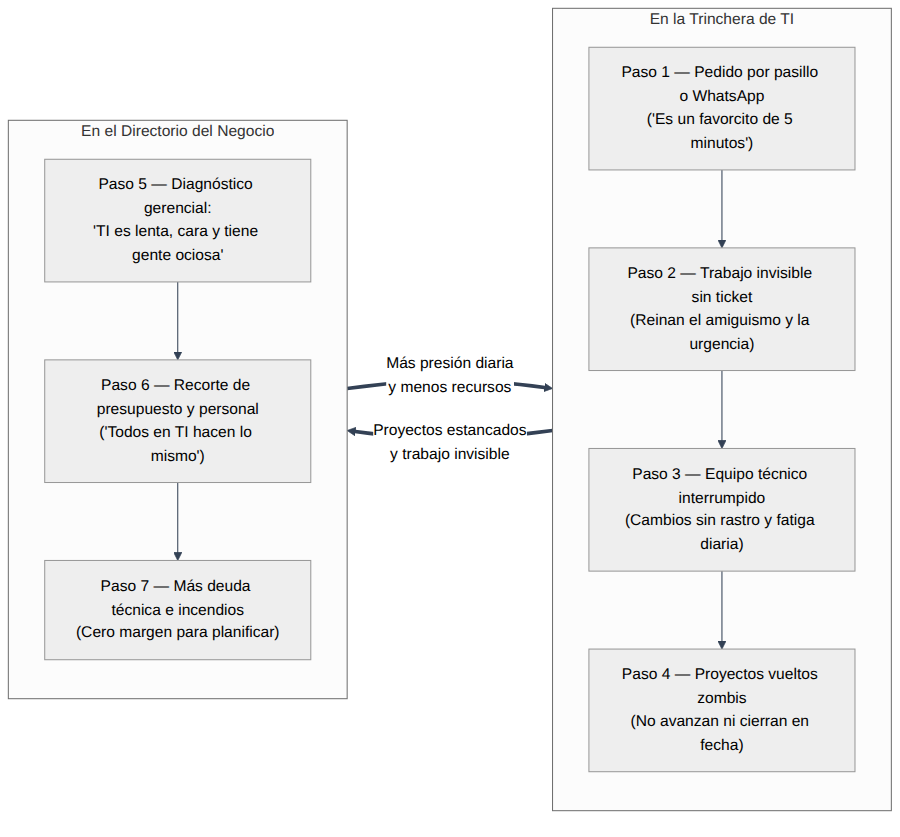
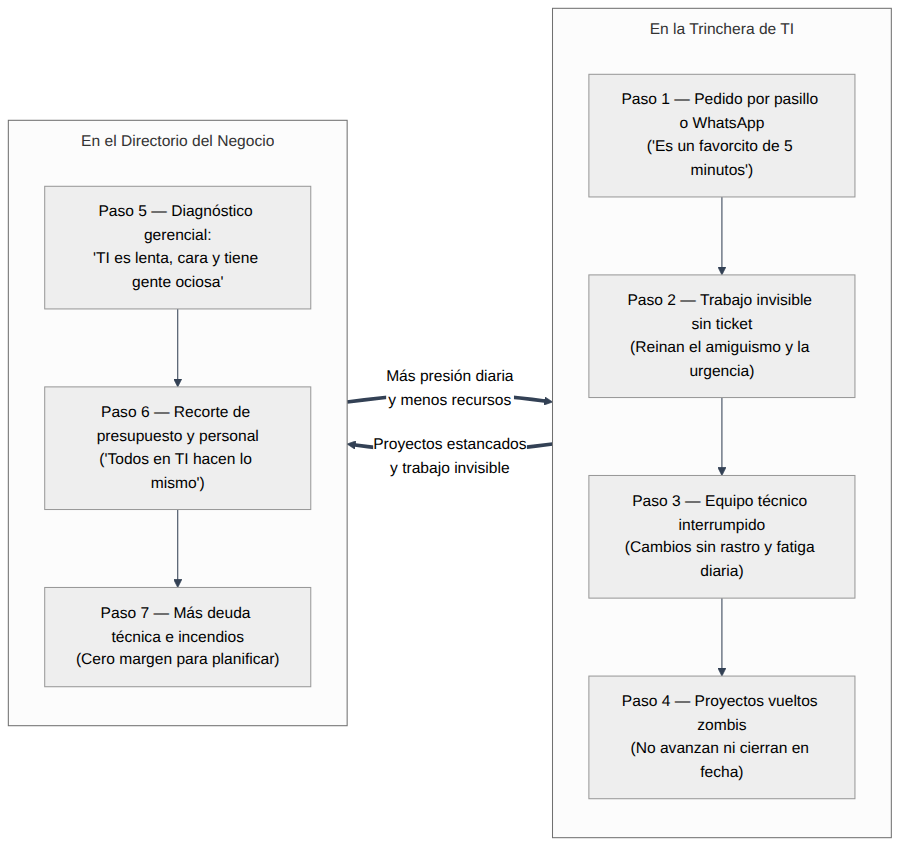
Agrega Capitulo 3 aprobado sobre trabajo hibrido y BYOD seguro

diff --git a/manuscrito/03-trabajo-hibrido-byod-frontera-diluida.md b/manuscrito/03-trabajo-hibrido-byod-frontera-diluida.md
@@ -1,0 +1,110 @@
+## Capítulo 3. Del BYOD improvisado al trabajo híbrido y remoto seguro
+
+En el prefacio de la primera edición mencioné cómo dos fenómenos cambiaron para siempre la relación entre las personas y su lugar de trabajo: la política de *Bring Your Own Device* (*BYOD*, o trae tu propio dispositivo) y la expansión masiva del trabajo remoto o teletrabajo. En aquel 2022 todavía quedaba gente preguntándose si todo aquello era un paréntesis temporal y si algún lunes volveríamos mágicamente al mundo de 2019, cuando bastaba cerrar con llave la puerta de vidrio de la oficina y encender un buen cortafuegos perimetral para dormir tranquilos.
+
+Hoy esa discusión está terminada. Incluso en las empresas que obligaron a parte de su plantilla a regresar varios días por semana a un escritorio físico, los datos, las sesiones de trabajo, los proveedores externos y los propios directivos entran y salen desde aeropuertos, cafeterías, redes domésticas y teléfonos móviles a cualquier hora.
+
+El problema es que la mayoría de las organizaciones adoptó el trabajo híbrido como quien se muda de casa en medio de una inundación: metiendo todo en bolsas plásticas en una noche de pánico en 2020 y dejando esas mismas bolsas tiradas en la sala seis años después. Lo que nació como un parche heroico de emergencia para no cerrar las puertas se convirtió, por inercia y ahorro mal entendido, en una arquitectura permanente llena de agujeros.
+
+### 3.1. El concepto sin humo: el edificio dejó de ser el perímetro
+
+Durante décadas diseñamos la seguridad y las operaciones de TI con mentalidad de castillo medieval. Adentro de la red local (*LAN*) de la empresa estaban "los buenos": las impresoras, los servidores de archivos, la base de datos contable y las computadoras de escritorio bajo llave. Afuera estaba internet, tierra hostil. Un cortafuegos en el borde hacía de foso con cocodrilos y, cuando algún ejecutivo viajaba, se le tendía un puente levadizo llamado red privada virtual (*Virtual Private Network* o *VPN*) para meterlo de vuelta dentro del castillo.
+
+En 2026 ese castillo ya no tiene muros: es una plaza abierta donde la mitad de la nómina trabaja tres días desde su comedor, los vendedores cotizan desde el teléfono en la calle y parte de los sistemas vive fuera del edificio. Seguir defendiendo un perímetro físico que dejó de existir equivale a poner un guardia armado en la puerta principal de un banco cuyas paredes traseras son de cortina.
+
+En mis notas preparatorias de la primera edición dejé escritas dos ideas que en su momento parecían incómodas y que el tiempo terminó confirmando por las malas: la **idea arcaica de los equipos corporativos estáticos** y la **definición utópica de la privacidad** cuando se mezclan la vida personal y el trabajo en un mismo aparato.
+
+Desarmemos ambas sin hipocresía:
+
+1. **La frontera real hoy es la identidad y la sesión, no el cable de red:** Estar sentado físicamente en el tercer piso de la empresa no convierte a un dispositivo en confiable, igual que conectarse desde otra ciudad no impide trabajar con seguridad quirúrgica si verificas quién entra, desde qué contexto lo hace y a qué único recurso tiene permiso de llegar.
+2. **La privacidad absoluta y el control absoluto no caben juntos en el mismo disco duro:** Pretender que un empleado guarde nóminas, contratos y credenciales productivas en su computadora personal sin que la empresa pueda aplicar ni una sola regla de seguridad es una fantasía suicida. Pero pretender que la empresa no gaste un centavo en equipamiento y, aun así, tenga derecho a espiar la cámara, las fotos familiares y el historial privado del aparato pagado por el trabajador es un abuso inaceptable.
+
+### 3.2. La teoría vs. la trinchera: del aprovisionamiento mágico al soporte doméstico a ciegas
+
+Si escuchas la charla de un proveedor global o miras cómo operan las corporaciones tecnológicas de primer nivel, el trabajo remoto parece una coreografía suiza. El empleado nuevo recibe en su domicilio una caja sellada de fábrica; al abrir la portátil y conectarse a internet, el sistema de gestión de dispositivos móviles (*Mobile Device Management* o *MDM*) descarga de forma desatendida las políticas de cifrado de disco, certificados de identidad, agentes de telemetría y aplicaciones autorizadas (*Zero-Touch Provisioning*). Si el equipo se pierde o la persona se desvincula, un comando remoto destruye las llaves criptográficas en segundos.
+
+Ahora aterricemos en la trinchera real de una PyME o empresa mediana en nuestra región. La inflación, los costos aduaneros de importación o la simple tacañería presupuestaria hicieron que el supuesto *"programa BYOD"* no fuera una opción moderna de flexibilidad laboral, sino un traslado forzoso de costos: *"¿Tienes computadora en tu casa? Perfecto, conéctate desde ahí el lunes"*.
+
+Observa el abismo operativo que separa el folleto corporativo de lo que recibe a diario un equipo pequeño de soporte e infraestructura:
+
+| Dimensión del trabajo híbrido | Teoría corporativa (Flota 100 % gestionada) | Trinchera real en PyME / Empresa mediana |
+| :--- | :--- | :--- |
+| **Propiedad y estado del equipo** | Portátil corporativa estandarizada, disco cifrado y sin permisos de administrador local. | Computadora doméstica de hace 7 años compartida con los hijos, con Windows sin licenciar o parches desactivados. |
+| **Conectividad remota** | Acceso condicional por aplicación con llave física de seguridad y enlaces redundantes. | Túnel *VPN* plano con usuario y clave estática compartido por correo hace tres años. |
+| **Conectividad del hogar** | Bono corporativo de conectividad y módem móvil de respaldo para puestos críticos. | Enlace residencial inestable con el enrutador escondido detrás del televisor a tres paredes de distancia. |
+| **Frontera de soporte técnico** | Si el equipo falla, se envía reemplazo estandarizado y se reimagina desde cero. | Horas perdidas por teléfono intentando adivinar qué instaló el sobrino del usuario el domingo a la noche. |
+
+Cuando superpones esa realidad doméstica sobre una red corporativa diseñada con mentalidad de los años noventa, obtienes una autopista directa hacia el desastre. Compara la diferencia arquitectónica entre el modelo heredado de *VPN* plana y el diseño moderno centrado en identidad y cápsulas aisladas:
+
+![Modelo roto de VPN plana frente a frontera moderna por identidad y sesión aislada](03-frontera-identidad-dispositivo.png){ width=92% }
+
+### 3.3. Excentricidades y antipatrones: la laptop familiar en la LAN, el espionaje torpe y la empresa secuestrada en WhatsApp
+
+Pocas cosas ponen a prueba la cordura de un departamento de TI como las excentricidades nacidas del teletrabajo mal gobernado. Hay una escena en particular que resume casi todos los pecados capitales de esta etapa y que he visto repetirse con escalofriante exactitud.
+
+Un martes a media mañana suena la alerta o cae el rendimiento de un servidor interno. Cuando rastreas el origen del tráfico anómalo dentro de la red privada virtual, descubres que proviene de la sesión remota de un analista administrativo. Al indagar qué máquina está usando, sale a la luz toda la anatomía del desastre: es la portátil familiar del comedor de su casa, donde la noche anterior descargaron un videojuego "gratuito" con un ejecutable adulterado cuyas instrucciones pedían expresamente apagar el antivirus de Windows porque *"detecta falsos positivos"*.
+
+Como algún iluminado configuró años atrás la *VPN* en modo puente completo —dándole a cualquier conectado exactamente el mismo acceso de red que si estuviera enchufado al conmutador principal de los servidores—, el código malicioso del juego pirata ya está escaneando carpetas compartidas de contabilidad. Y por si a la escena le faltara surrealismo, diez minutos después esa misma persona abre un reclamo quejándose de que el sistema de la empresa *"anda lentísimo"* y exigiendo que alguien de TI se conecte a arreglarle el Wi-Fi doméstico y a configurar la impresora de inyección de tinta con la que sus hijos imprimen tareas escolares.
+
+Para cortar de raíz este circo operativo hay que desmontar tres antipatrones específicos:
+
+#### 1. La hipocresía del *bossware* frente al contrato honesto de propiedad
+
+Existe una especie directiva particularmente dañina: el jefe que mide productividad contando horas de silla porque es incapaz de medir objetivos entregados. Cuando esa mentalidad se cruzó con el trabajo remoto sin presupuesto, engendró una aberración ética y legal: exigirle al trabajador que ponga su propia computadora, su electricidad y su conexión doméstica, pero obligarlo a instalar programas de vigilancia invasiva (*bossware*) que capturan la pantalla cada tres minutos, registran pulsaciones de teclado o miden si el ratón se movió durante cinco minutos seguidos.
+
+Digámoslo con todas las letras: el *bossware* no mejora la seguridad ni la productividad; solo destruye la confianza de los buenos profesionales y premia a quien pone un objeto pesado sobre la barra espaciadora.
+
+Aquí rige una regla de oro contractual que defiendo sin concesiones: **quien exige control absoluto sobre el hierro debe pagar el hierro**. Si un puesto maneja secretos industriales, administración de sistemas o bases financieras críticas y requiere bloqueo completo de puertos USB, cifrado forzoso y monitoreo integral del sistema operativo, la empresa compra y entrega una portátil corporativa. Punto. Y cuando por realidad económica de PyME o para roles acotados se acuerda usar *BYOD*, **TI solo gobierna un contenedor o sesión remota aislada: cero espionaje sobre la vida privada del dueño y cero soporte técnico sobre su hardware, su sistema operativo personal o el enrutador de su casa**.
+
+#### 2. La *VPN* plana como multiplicador de catástrofes
+
+Seguir entregando en 2026 accesos *VPN* tradicionales que otorgan visibilidad completa a toda la red interna con solo escribir un usuario y una contraseña reutilizada es negligencia pura. El día que roban esa credencial con un correo falso —o que infectan la máquina casera donde el navegador guardaba la clave sin pedir nada más—, el atacante no entra a una aplicación: entra al pasillo central de toda tu infraestructura sin ningún control intermedio.
+
+#### 3. La empresa entera secuestrada en el WhatsApp personal
+
+Este es probablemente el punto ciego más extendido en América Latina y España. Por comodidad inmediata, miles de empresas dejaron que toda su relación con clientes, aprobaciones de descuentos, envío de cédulas de identidad, contratos firmados y hasta contraseñas temporales circularan por cuentas personales de WhatsApp instaladas en el teléfono privado de cada empleado.
+
+Piensa fríamente qué ocurre el viernes a las cinco de la tarde cuando un ejecutivo comercial estrella se pelea con su jefe y se va a trabajar el lunes con tu competidor directo: en su bolsillo se lleva el número al que llaman todos tus clientes, tres años de historial de negociaciones, listas de precios y documentos confidenciales sobre los que la empresa no tiene respaldo, trazabilidad ni capacidad legal de borrado. Convertir el teléfono privado del personal en tu sistema de gestión comercial (*CRM*) gratuito sale carísimo el día que toca pagar la cuenta.
+
+#### Señales de alerta temprana
+
+Tu esquema de trabajo híbrido es una bomba de tiempo si marcas afirmativamente varios de estos puntos:
+
+- Un equipo conectado por acceso remoto puede hacer *ping* o explorar puertos de servidores que no necesita para su puesto diario.
+- Tus usuarios se autentican desde fuera de la oficina sin segundo factor fuerte o recibiendo códigos por mensaje de texto (*SMS*).
+- Si hoy roban o se rompe la portátil personal de un empleado remoto, se pierden archivos de trabajo que solo existían en su carpeta *Mis Documentos*.
+- Los clientes escriben a números móviles personales de los vendedores en lugar de a una línea institucional centralizada.
+- El equipo de soporte pierde horas semanales diagnosticando problemas de proveedores residenciales de internet o equipos domésticos ajenos.
+
+### 3.4. Marco de acción pragmático: identidad fuerte, acceso mínimo y cápsulas limpias
+
+Asegurar el trabajo híbrido y ordenar el *BYOD* no exige presupuestos de multinacional; exige dejar de confiar en la ubicación física y apoyar la operación sobre cuatro pilares abiertos y verificables.
+
+#### Paso 1: Pon la identidad con MFA real delante de absolutamente todo
+
+Antes de discutir túneles o escritorios, centraliza quién es quién en un proveedor de identidad serio y abierto como **Keycloak** o **Authentik**. Elimina las contraseñas sueltas repartidas en diez sistemas distintos y activa autenticación multifactor (*Multi-Factor Authentication* o *MFA*) obligatoria basada en estándares **FIDO2 / WebAuthn (*Passkeys*)** —que vinculan criptográficamente el inicio de sesión al dominio real impidiendo el robo por páginas falsas— o, como piso mínimo aceptable, aplicaciones generadoras de códigos temporales (*TOTP*). Destierra el *SMS* como factor de seguridad: clonar una tarjeta telefónica hoy cuesta menos que un almuerzo.
+
+#### Paso 2: Jubila la VPN plana con redes superpuestas de privilegio mínimo
+
+Desmonta el túnel único que abre toda la subred corporativa y sustitúyelo por mallas modernas construidas sobre el protocolo criptográfico **WireGuard**, gobernadas mediante plataformas abiertas y autoalojables como **NetBird** o **Headscale** (el servidor de control abierto compatible con clientes *Tailscale*).
+
+La diferencia operativa es radical: en lugar de meter al usuario "dentro de la red", defines reglas explícitas por grupo de identidad: *el grupo Contabilidad solo alcanza el puerto HTTPS del ERP; el grupo Desarrollo solo ve Git y el entorno de pruebas; nadie ve el resto de las máquinas*. Si un dispositivo doméstico cae infectado, el atacante se choca contra paredes ciegas en todas las direcciones.
+
+#### Paso 3: Encapsula el BYOD sin tocar el disco local y recupera los canales de comunicación
+
+Cuando el dispositivo no pertenece a la empresa, la regla técnica más limpia es que **los datos nunca aterricen en ese dispositivo**. En lugar de instalar programas pesados ni tocar la computadora personal del colaborador, publica el acceso mediante navegador web hacia sesiones aisladas usando **Apache Guacamole** (puerta de enlace sin cliente hacia escritorios remotos internos) o **Kasm Workspaces** (contenedores efímeros de escritorio y navegador que se destruyen al cerrar la sesión, bloqueando o auditando la copia de archivos al equipo anfitrión). El empleado entra desde su navegador con su llave de identidad, trabaja con fluidez y, al cerrar la pestaña, en la máquina familiar quedan exactamente cero documentos corporativos.
+
+En paralelo, corta la sangría de la mensajería privada: centraliza la atención externa de WhatsApp, correo y redes sobre **Chatwoot** conectado a números oficiales de la compañía —donde los clientes pertenecen a la empresa y varios agentes atienden sin usar su chip personal— y despliega **Mattermost** para la mensajería interna del equipo bajo tu propio control documental.
+
+#### Paso 4: Firma una política BYOD humana de una sola página
+
+Nadie respeta un reglamento legalista de cuarenta páginas redactado para cubrirse las espaldas sin resolver cómo trabajar. Reemplázalo por un acuerdo claro de una carilla que fije por escrito cuatro compromisos simétricos:
+
+| Cláusula operativa | Compromiso de la Empresa y TI | Compromiso del Colaborador |
+| :--- | :--- | :--- |
+| **Alcance del acceso** | Proveer acceso vía navegador o cápsula aislada con licencias pagadas por la empresa. | Acceder únicamente mediante su identidad personal con *MFA* activo, sin compartir credenciales. |
+| **Privacidad garantizada** | Prohibición expresa de instalar *bossware* o inspeccionar archivos personales fuera de la cápsula laboral. | Prohibición expresa de descargar bases de clientes, nóminas o claves fuera del entorno corporativo. |
+| **Límite de soporte** | Garantizar la disponibilidad del portal remoto, las aplicaciones internas y las guías de conexión. | Mantener operativo su enlace doméstico y su equipo propio sin exigir soporte de TI sobre hardware familiar. |
+| **Salida limpia** | Revocar en un clic el token de identidad el día de desvinculación sin formatear el aparato privado. | Operar clientes exclusivamente por canales oficiales de la empresa, nunca desde cuentas personales. |
+
+Cuando trazas esa frontera con honestidad técnica y respeto mutuo, desaparecen al mismo tiempo el espionaje improvisado, las infecciones cruzadas desde el comedor familiar y las horas perdidas arreglando impresoras ajenas. Con el puesto de trabajo bajo control, toca enfrentar en el cierre de esta primera parte el gran cambio tectónico de la década: cómo pasamos de querer imitar ciegamente a las gigantes de la nube a la realidad actual de la inteligencia artificial y la infraestructura híbrida.

diff --git a/specs/entrevistas-autor.md b/specs/entrevistas-autor.md
@@ -56,3 +56,16 @@
   - Exigir siempre **formatos/protocolos abiertos y plan de salida documentado** antes de contratar un proveedor o adoptar una herramienta, vetando tecnologías exóticas elegidas para engordar currículums que dependan de un único "iluminado" en el equipo.
 - **Herramientas y métricas del Marco de Acción Pragmático (Bloque 2.4):**
   - Semáforo vivo de ciclo de vida (*EOL/EOS*) apoyado en **Snipe-IT**, **NetBox** o **GLPI** cruzado con `endoflife.date` (más aislamiento inmediato de lo vencido), cuota fija protegida del **15 %–20 %** de capacidad para pagar deuda existente y **filtro anti-humo de 5 preguntas** antes de aprobar cualquier moda comercial.
+
+---
+
+## Sesión 03 — Capítulo 3: Del BYOD improvisado al trabajo híbrido y remoto seguro (`manuscrito/03-trabajo-hibrido-byod-frontera-diluida.md`)
+
+- **Escena y excentricidad central (Bloque 3.3):**
+  - La computadora portátil familiar compartida —con juegos pirateados, antivirus desactivado y sin parches— conectada mediante una VPN plana directamente a la red interna de servidores, mientras el usuario reclama además que TI le repare el Wi-Fi o la impresora de su casa.
+- **Postura autoral sobre privacidad, propiedad del equipo y *bossware* (Bloques 3.1 y 3.3):**
+  - Rescate y desarrollo de la nota original sobre la *"definición utópica de privacidad"*: **control total del dispositivo exige equipo pagado por la empresa**. Si existe *BYOD*, TI únicamente aísla y gobierna la sesión o contenedor de trabajo (cero *bossware* espía sobre la vida privada del empleado y cero soporte técnico al hardware o red doméstica).
+- **Regla frente a VPN planas y WhatsApp personal (Bloques 3.2 y 3.3):**
+  - Mano dura en ambos frentes: jubilación definitiva de la VPN plana abierta a toda la LAN (vector directo de propagación lateral de *ransomware*) y prohibición de gestionar carteras de clientes o documentación sensible desde cuentas personales de WhatsApp.
+- **Herramientas y estándares del Marco de Acción Pragmático (Bloque 3.4):**
+  - Identidad centralizada con **Keycloak** o **Authentik** + MFA fuerte (**FIDO2 / WebAuthn / *Passkeys*** o *TOTP*, sin SMS); reemplazo de VPN plana por malla segmentada sobre **WireGuard** (**NetBird** o **Headscale/Tailscale**); aislamiento sin datos locales en *BYOD* vía **Apache Guacamole** o **Kasm Workspaces**; canales propios con **Chatwoot** / **Mattermost**; y política *BYOD* firmable de 1 página.
